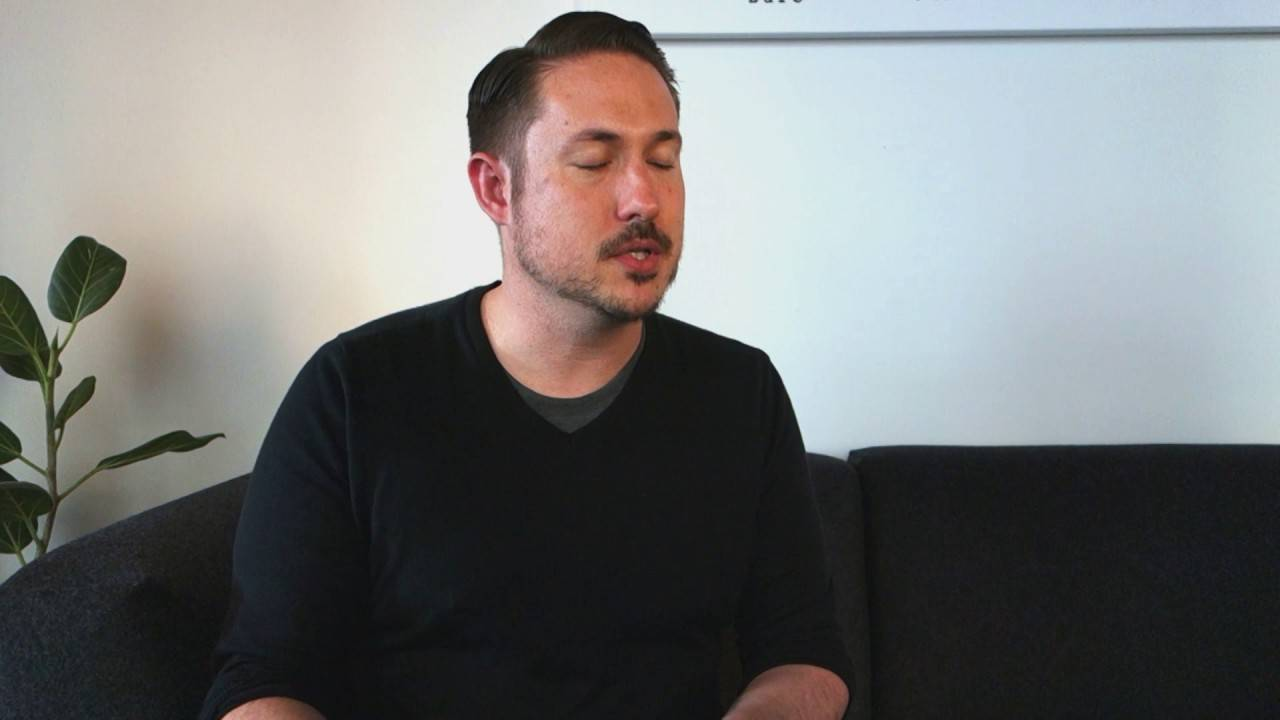
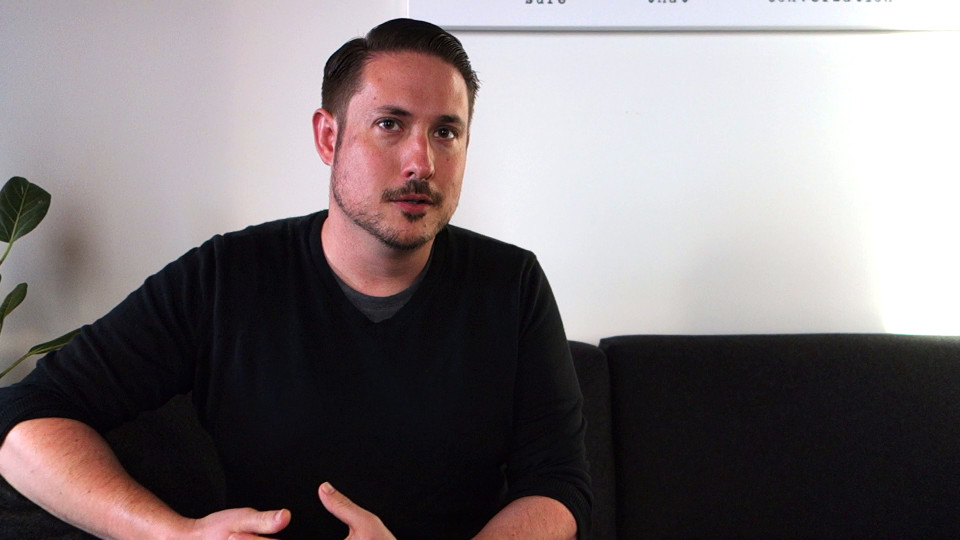
campaign: Update video of the day to Geoffrey King

diff --git a/web/share/campaign/campaign.js b/web/share/campaign/campaign.js
@@ -89,7 +89,7 @@ function get_param_from_url(name) {
 $(document).ready(function() {
 
     // VOTD: Update VOTD here.
-    let VIDLIST = "hernani,leez,noah,c5,jochim,john,jason,sze,rysiek,ksenia,cindy,matt,thenmozhi,alex,andre,benjamin";
+    let VIDLIST = "geoffrey,hernani,leez,noah,c5,jochim,john,jason,sze,rysiek,ksenia,cindy,matt,thenmozhi,alex,andre,benjamin";
 
     let YTID = { "main": "wNHhkntqklg",
 		 "thenmozhi": "sQMj332dgIE",
@@ -101,7 +101,6 @@ $(document).ready(function() {
 		 "matt": "5MCGTd8pOG4",
 		 "john": "iRuo57Hzask",
 		 "jason": "oQvP9SXm-ek",
-		 "geoffrey": "Y4yat43CvEc",
 		 "daniel": "coFFCJlMRjk",
 		 "cindy": "IdCiJMc3q80",
 		 "benjamin": "atFz16nInIs",
@@ -114,7 +113,8 @@ $(document).ready(function() {
                  "jochim": "sX0lncD0VCM",
                  "c5": "Z0h_uPWFp7o",
                  "leez": "_aJPaR9Cfmk",
-                 "hernani": "VJIR5zzpUr8"
+                 "hernani": "VJIR5zzpUr8",
+		 "geoffrey": "K8-pmUyegYk"
 	       };
 
     /* For the video preview, we use this for devices without hover events.  */
